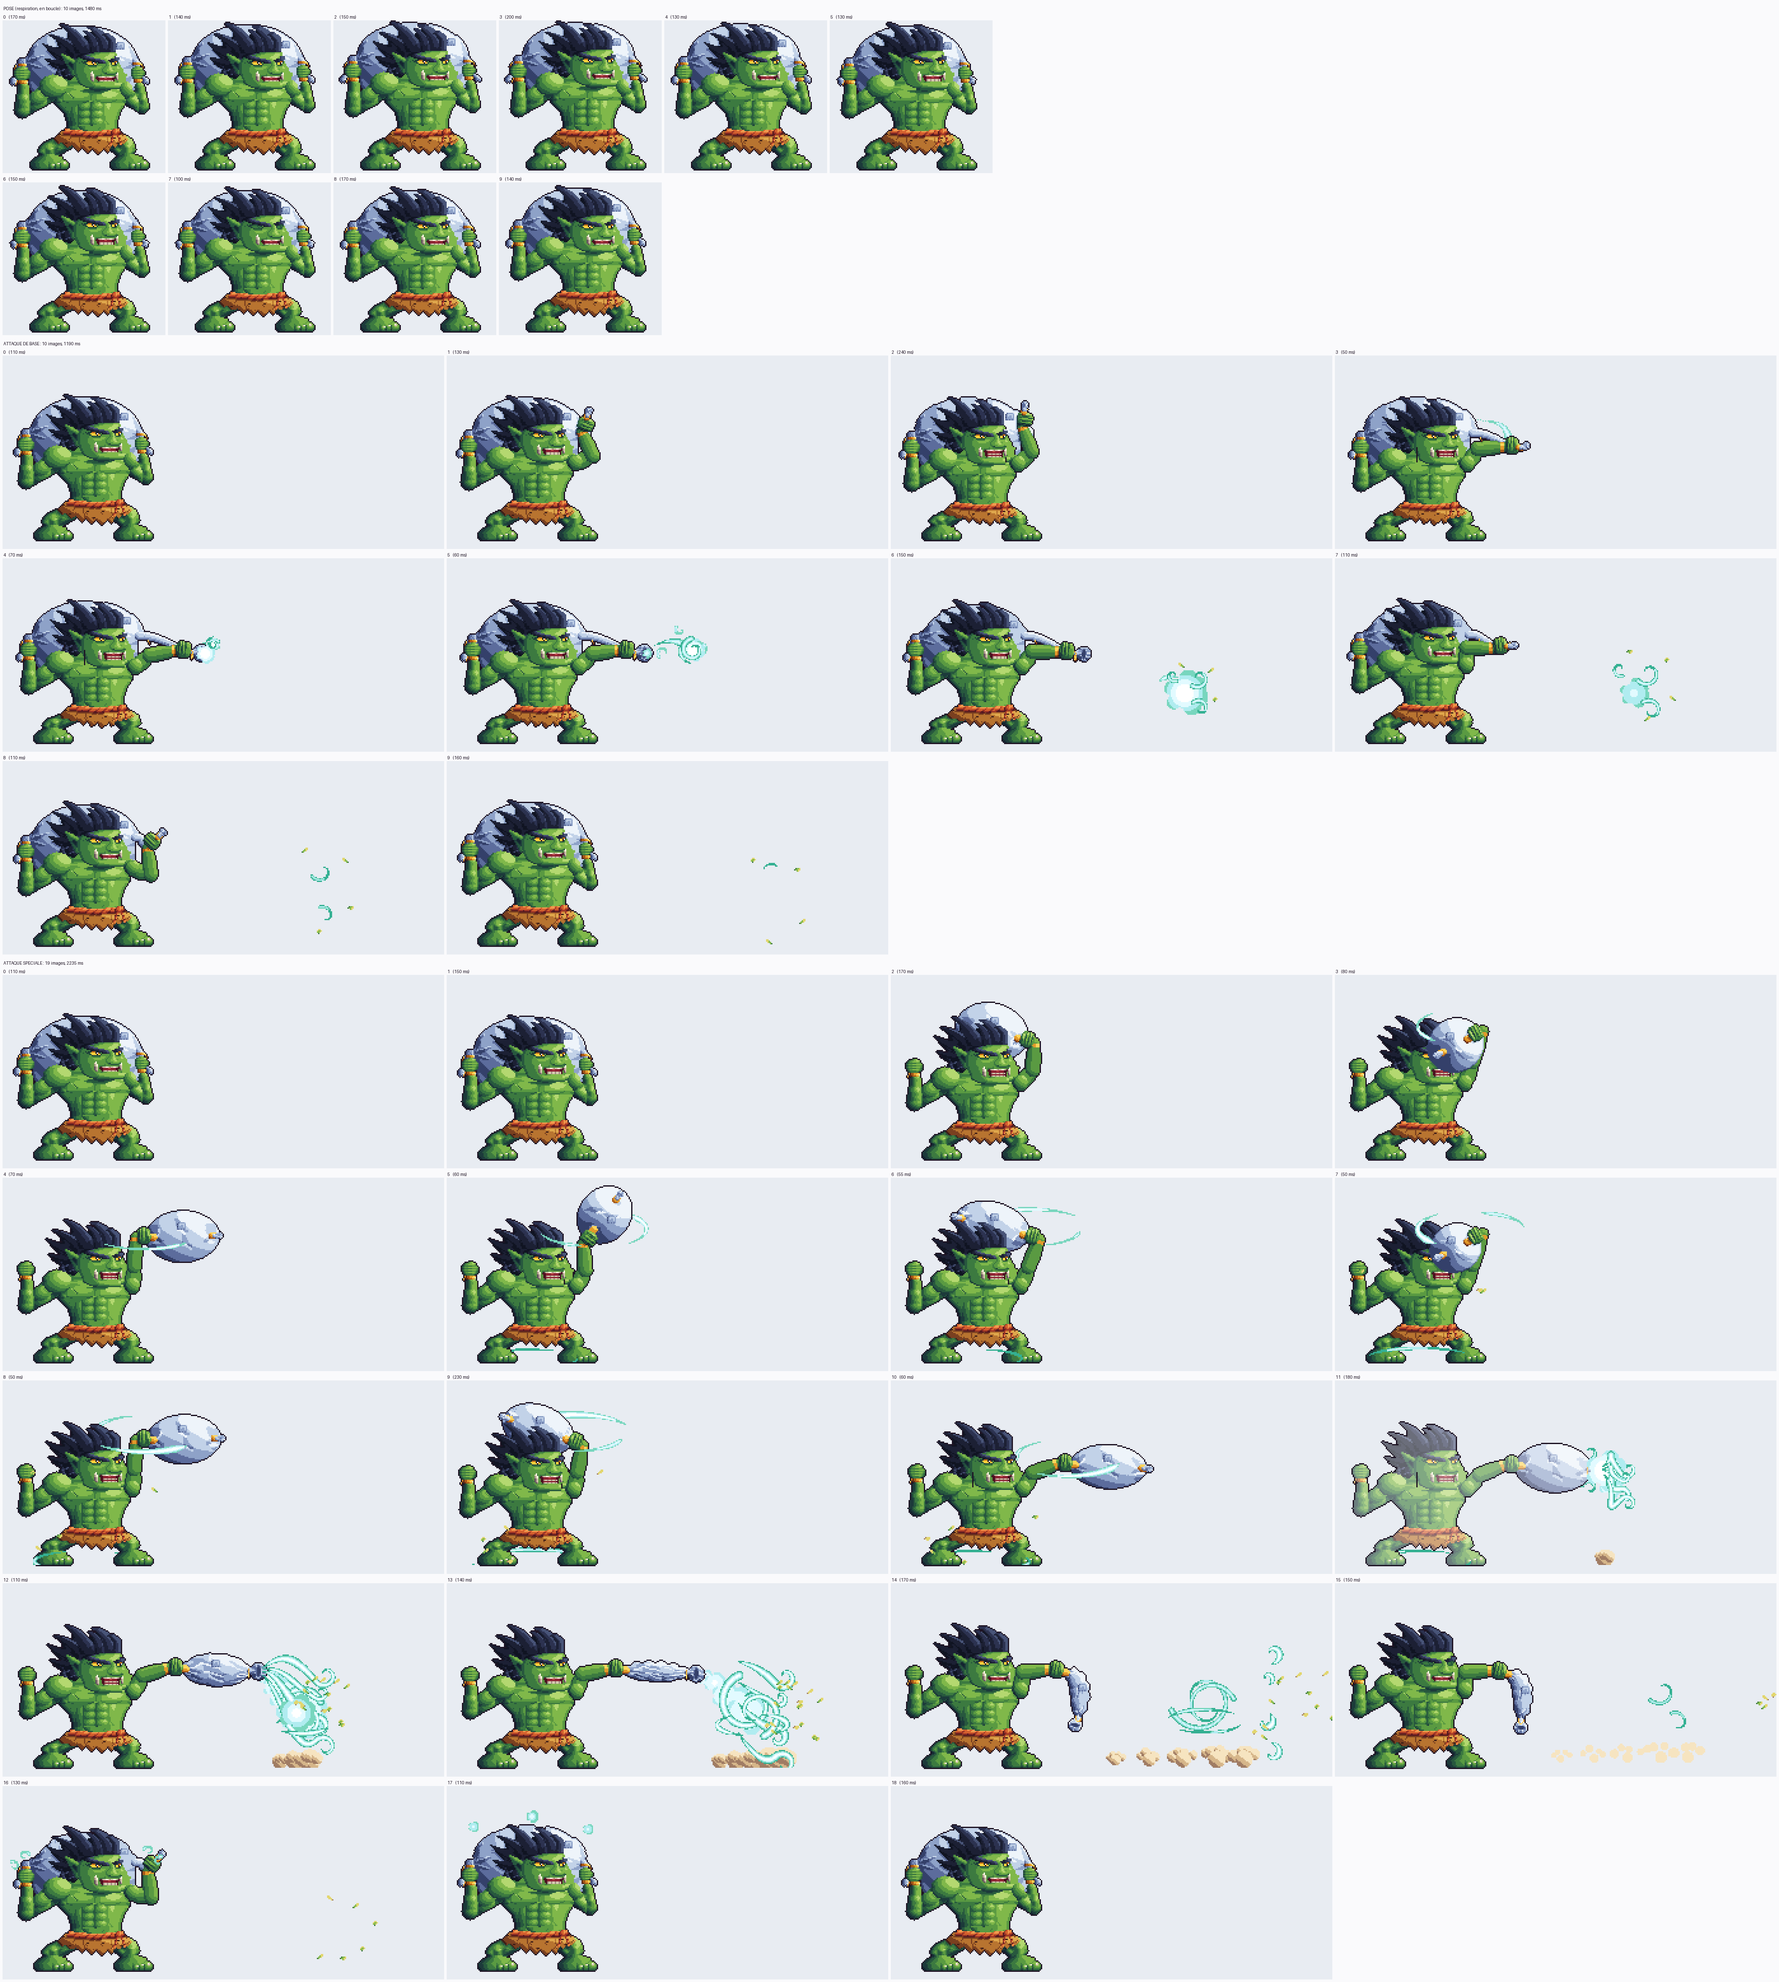
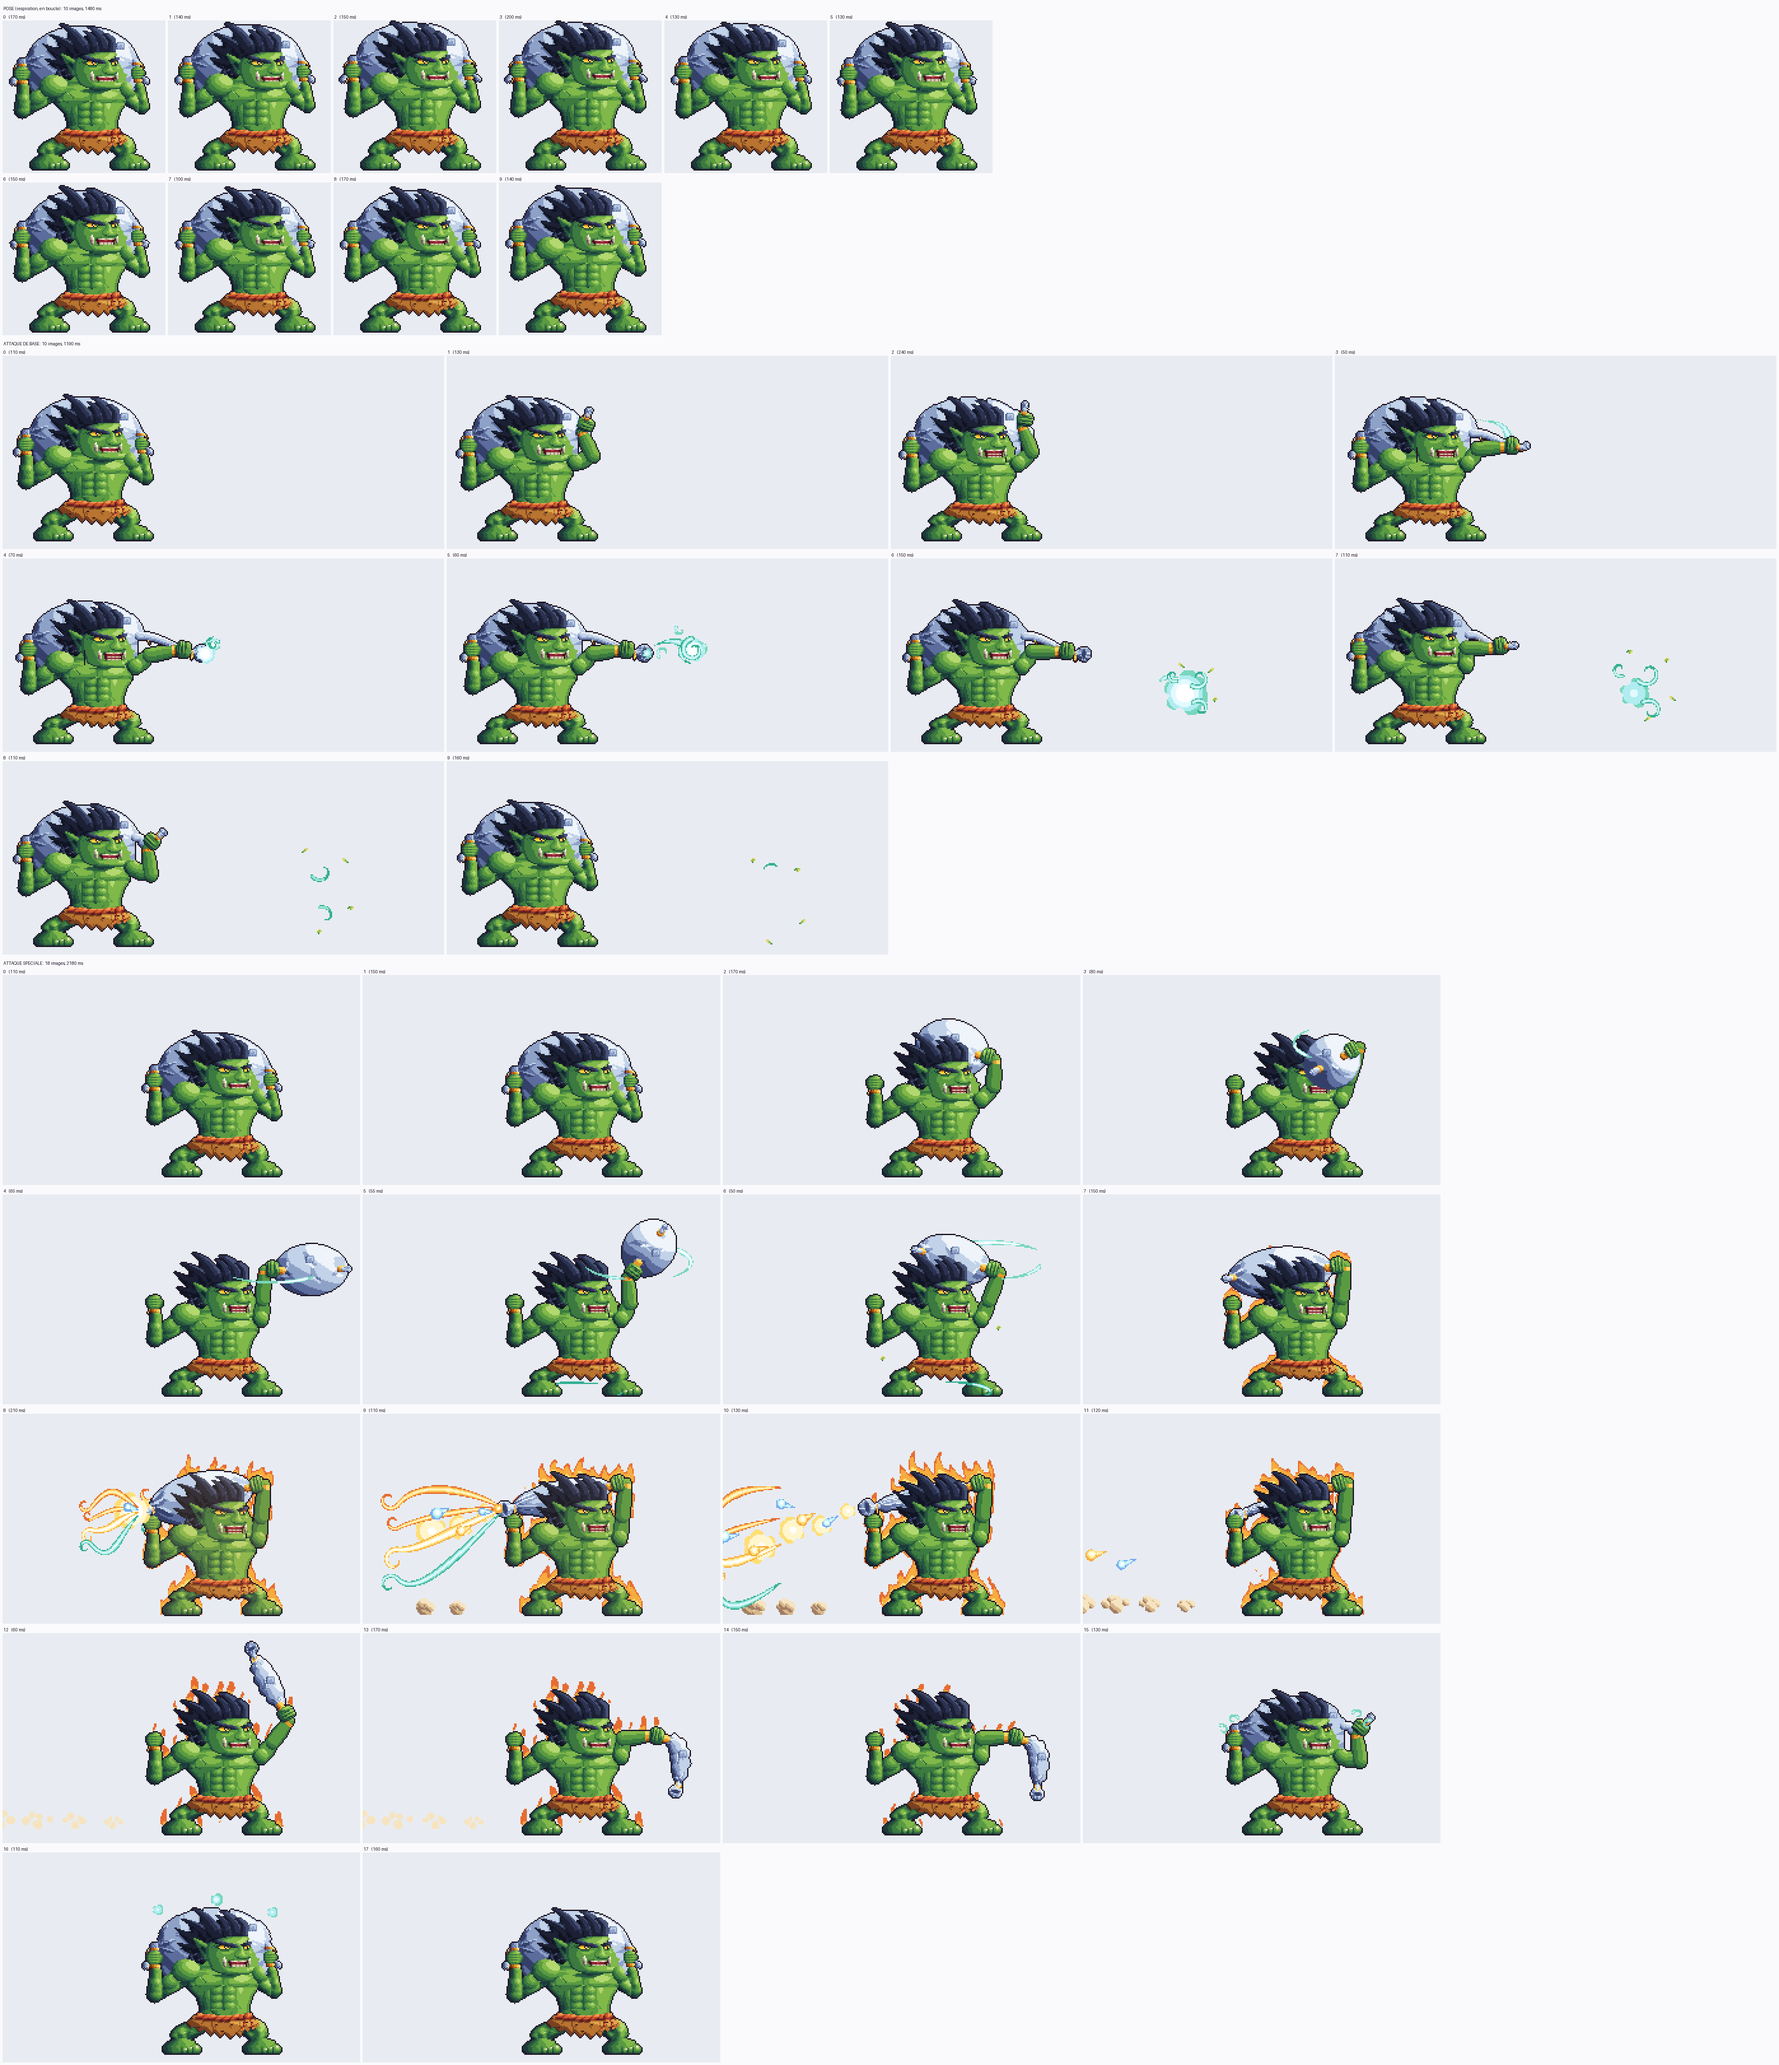
HD : spéciale d'équipe d'Arcan (attaque et énergie de l'équipe)
Claude-Session: https://claude.ai/code/session_01StTiAZjvnzYLiVPjaUWZHe

diff --git a/refonte-graphique/pixel/hd/anim/arcan/build.py b/refonte-graphique/pixel/hd/anim/arcan/build.py
@@ -1,5 +1,6 @@
 # Arcan (mages-7, vent, soutien, épique) : l'ogre au sac à vent — pose (respiration), attaque de base « Coup de col »,
-# attaque spéciale « Fronde d'Éole ».
+# attaque spéciale « Fronde d'Éole » (refaite le 25/11/2026 en sort d'ÉQUIPE : il ouvre le sac vers ses alliés, derrière
+# lui ; voir « la spéciale d'équipe » plus bas).
 #
 # Lancer : python3 refonte-graphique/pixel/hd/anim/arcan/build.py
 # Écrit dans refonte-graphique/pixel/sortie/ : anim-arcan-pose.gif, anim-arcan-attaque.gif, anim-arcan-speciale.gif,
@@ -18,7 +19,7 @@
 #     bracelet d'or), le poing (quatre rouleaux de doigts, le pouce par-dessus), le col du sac (tube de toile froncé,
 #     cordon d'or noué, bout froncé fermé ou ouvert en corolle) et, dans la spéciale, le sac entier quand il quitte
 #     les épaules (un long ballon de toile à deux cols, plis qui partent des cols, la pièce rapiécée, ombré par la
-#     lumière d'en haut à droite) : plein, étiré par la vitesse, qui se vide, puis flasque ;
+#     lumière d'en haut à droite) : plein, calé sur l'épaule, qui se vide, puis flasque ;
 #   - c'est un ogre lourd : préparations tenues, gestes brefs et puissants, retours un peu comiques (il grogne) ;
 #   - les effets (vent, poussière, feuilles) ont leur petite palette, sans contour noir, en formes courbes (rubans,
 #     volutes enroulées, bouffées) : jamais de rayons droits répétés ;
@@ -1358,9 +1359,7 @@ def embers(front, back, cv, t, n=9, spread=46, fade=0.0):
 def orb(cv, c, r, gold=False):
     """un orbe d'énergie : un coeur blanc décalé vers la lumière (en haut à droite), le corps bleu pâle (ou or), un
     bord plus soutenu"""
-    tones = 'WyY8' if gold else 'WXYx'
-    if gold:
-        tones = 'Wy89'
+    tones = 'Wy89' if gold else 'WXYx'
     cx, cy = c
     best = {}
     for y in range(int(cy - r - 1), int(cy + r + 2)):
@@ -1559,11 +1558,11 @@ SPECIALE = [
          fx=[fx_team(0)], ms=150),
     # il ouvre le col en poussant son cri de guerre : arrêt sur l'image, le vent porteur jaillit, l'aura flambe
     dict(mode='bag', crouch=3, lean=-2, G=SHOULDER_G, bend=1, jaw=2, head=(-1, 0), bag=shouldered(open_=1.0),
-         fx=[fx_team(1)], flash=(24, WARM), ms=210),
+         fx=[fx_team(1)], flash=(12, WARM), ms=210),
     dict(mode='bag', crouch=2, lean=-1, G=SHOULDER_G, bend=1, jaw=2, bag=shouldered(full=0.6, open_=1.0, wob=0.5),
-         fx=[fx_team(2)], flash=(12, WARM), ms=110),
+         fx=[fx_team(2)], flash=(6, WARM), ms=110),
     dict(mode='bag', crouch=2, lean=-1, G=SHOULDER_G, bend=1, jaw=2,
-         bag=shouldered(full=0.3, open_=1.0, wob=0.9, sway=1.0, L=70), fx=[fx_team(3)], flash=(8, WARM), ms=130),
+         bag=shouldered(full=0.3, open_=1.0, wob=0.9, sway=1.0, L=70), fx=[fx_team(3)], ms=130),
     dict(mode='bag', crouch=2, lean=0, G=SHOULDER_G, bend=1, jaw=1,
          bag=shouldered(full=0.08, open_=0.8, wob=1.0, sway=-1.0, L=66, d=196), fx=[fx_team(4)], ms=120),
     # le sac est vide : il le ramène par-dessus sa tête (la toile vide claque au vent)…
